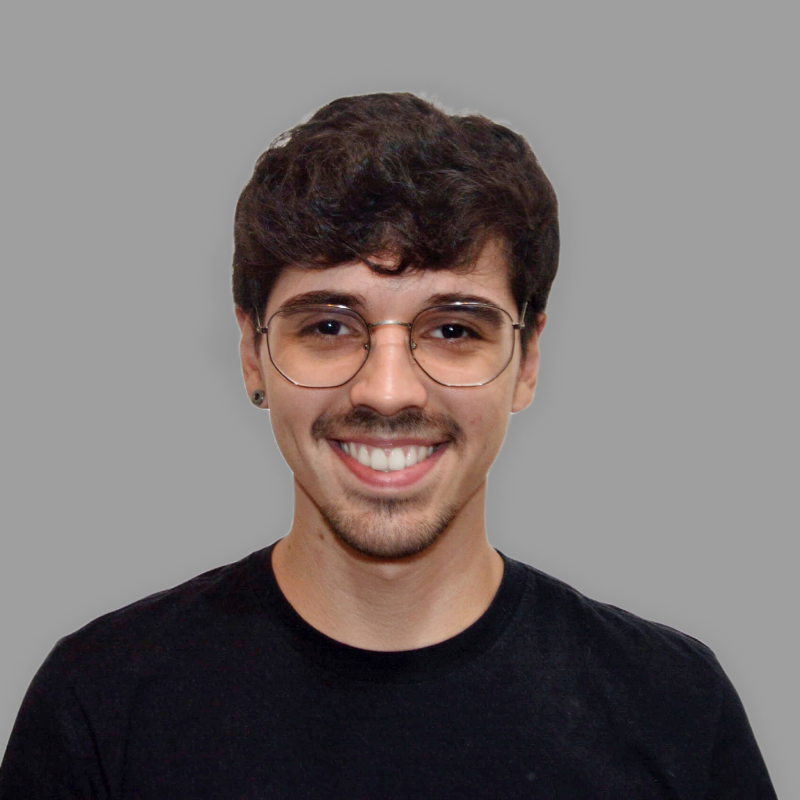
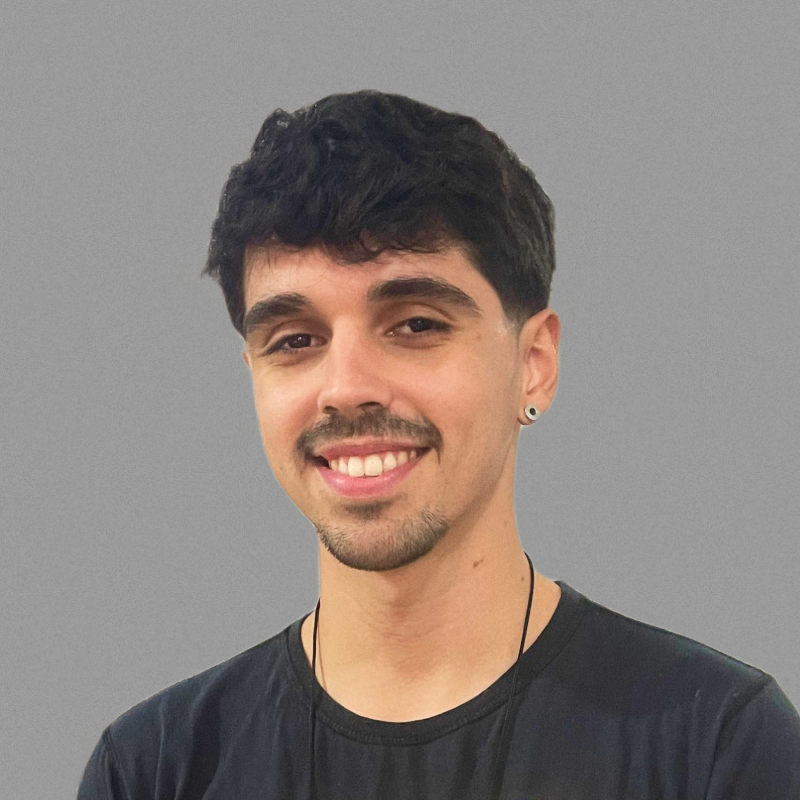
atualizando!

diff --git a/index.html b/index.html
@@ -50,11 +50,12 @@
           </li>
 
           <li>
-            <a href="#habilidades" class="navbar-link">Habilidades</a>
+            <a href="#conhecimentos" class="navbar-link">Conhecimentos</a>
           </li>
 
+
           <li>
-            <a href="#conhecimentos" class="navbar-link">Conhecimentos</a>
+            <a href="#ferramentas" class="navbar-link">Ferramentas</a>
           </li>
 
           <li>
@@ -96,7 +97,7 @@
             <h1 class="h1 hero-title">Miguel Braz</h1>
 
             <p class="hero-subtitle">
-              Web Designer | Designer Gráfico | Dev. Front-end
+              Web Designer | Marketing digital
             </p>
 
             <div class="hero-banner">
@@ -104,7 +105,7 @@
             </div>
 
             <p class="section-text">
-              Muito prazer! Sou um profissional criativo formado em Desenvolvimento de sistemas e atualmente cursando MBA em UX Design, inovação e marketing digital na UniSenac.
+              Muito prazer! Sou um profissional criativo e analista com pós-graduação em UX Design, inovação e marketing digital pela UniSenac.
             </p>
 
             <a href="assets/images/Currículo - Miguel Braz.pdf" download class="btn has-before">
@@ -126,7 +127,7 @@
         - #SERVICE
       -->
 
-      <section class="service" id="habilidades" aria-labelledby="service-label">
+      <section class="service" id="conhecimentos" aria-labelledby="service-label">
         <div class="container">
 
           <div class="title-wrapper">
@@ -136,7 +137,7 @@
                 - 1 -
               </p>
 
-              <h2 class="h2 section-title" id="service-label">Habilidades</h2>
+              <h2 class="h2 section-title" id="service-label">Conhecimentos</h2>
             </div>
 
             <p class="section-text">
@@ -173,10 +174,10 @@
                 <div class="service-card">
 
                   <div class="card-icon">
-                    <ion-icon name="shapes-outline"></ion-icon>
+                    <ion-icon name="share-social-outline"></ion-icon>
                   </div>
 
-                  <h3 class="h3 card-title">Design Gráfico</h3>
+                  <h3 class="h3 card-title">Marketing digital</h3>
 
                   <p class="card-text">
                     Combinação de elementos gráficos para comunicar mensagens de forma eficaz, incluindo a criação de logotipos, identidades visuais e materiais promocionais que refletem a marca.
@@ -196,7 +197,7 @@
                     <ion-icon name="color-filter-outline"></ion-icon>
                   </div>
 
-                  <h3 class="h3 card-title">UX Design</h3>
+                  <h3 class="h3 card-title">UX & UI Design</h3>
 
                   <p class="card-text">
                     Entendimento e melhoria da interação dos usuários com produtos digitais através de pesquisa, testes de usabilidade, garantindo uma experiência intuitiva e satisfatória.
@@ -213,10 +214,10 @@
                 <div class="service-card">
 
                   <div class="card-icon">
-                    <ion-icon name="share-social-outline"></ion-icon>
+                    <ion-icon name="shapes-outline"></ion-icon>
                   </div>
 
-                  <h3 class="h3 card-title">Social Media</h3>
+                  <h3 class="h3 card-title">Design gráfico</h3>
 
                   <p class="card-text">
                     Desenvolvimento de materiais interativos e relevantes, com análise de métricas e estratégias para fortalecer a conexão da marca com o público.
@@ -250,15 +251,15 @@
 
 
       <!-- 
-        - #SKILLS
+        - #Ferramentas
       -->
 
-      <section class="section skills" aria-label="our skills" id="conhecimentos">
+      <section class="section skills" aria-label="our skills" id="ferramentas">
         <div class="container">
 
           <p class="section-subtitle">- 2 -</p>
 
-          <h2 class="h2 section-title">Conhecimentos</h2>
+          <h2 class="h2 section-title">Ferramentas</h2>
 
           <div class="skills-wrapper">
 
@@ -281,7 +282,19 @@
 
                 <li>
                   <div class="progress-wrapper">
-                    <p class="progress-label">Web Design</p>
+                    <p class="progress-label">Figma</p>
+
+                    <data class="progress-value" value="98">98%</data>
+                  </div>
+
+                  <div class="progress-bg">
+                    <div class="progress" style="width: 98%;"></div>
+                  </div>
+                </li>
+
+                <li>
+                  <div class="progress-wrapper">
+                    <p class="progress-label">Photoshop & Illustrator</p>
 
                     <data class="progress-value" value="95">95%</data>
                   </div>
@@ -293,49 +306,25 @@
 
                 <li>
                   <div class="progress-wrapper">
-                    <p class="progress-label">UX & UI Design</p>
+                    <p class="progress-label">Canva</p>
 
-                    <data class="progress-value" value="93">93%</data>
+                    <data class="progress-value" value="95">95%</data>
                   </div>
 
                   <div class="progress-bg">
-                    <div class="progress" style="width: 93%;"></div>
+                    <div class="progress" style="width: 95%;"></div>
                   </div>
                 </li>
 
                 <li>
                   <div class="progress-wrapper">
-                    <p class="progress-label">Design Gráfico</p>
+                    <p class="progress-label">Premiere Pro & CapCut</p>
 
-                    <data class="progress-value" value="93">93%</data>
+                    <data class="progress-value" value="92">92%</data>
                   </div>
 
                   <div class="progress-bg">
-                    <div class="progress" style="width: 93%;"></div>
-                  </div>
-                </li>
-
-                <!-- <li>
-                  <div class="progress-wrapper">
-                    <p class="progress-label">Social Media</p>
-
-                    <data class="progress-value" value="89">89%</data>
-                  </div>
-
-                  <div class="progress-bg">
-                    <div class="progress" style="width: 89%;"></div>
-                  </div>
-                </li> -->
-
-                <li>
-                  <div class="progress-wrapper">
-                    <p class="progress-label">Programação Front-end</p>
-
-                    <data class="progress-value" value="88">88%</data>
-                  </div>
-
-                  <div class="progress-bg">
-                    <div class="progress" style="width: 88%;"></div>
+                    <div class="progress" style="width: 92%;"></div>
                   </div>
                 </li>
 
@@ -375,23 +364,22 @@
 
           <ul class="slider-container" data-slider-container>
 
-            <li class="slider-item">
+                        <li class="slider-item">
               <div class="portfolio-card img-holder" style="--width: 600; --height: 600;">
 
-                <img src="./assets/images/portfolio-1.PNG" width="600" height="600" loading="lazy" alt="portfolio"
+                <img src="./assets/images/portfolio-3.png" width="600" height="600" loading="lazy" alt="portfolio"
                   class="img-cover">
 
                 <div class="card-content">
-                  <h3 class="h3 card-title">Smart+ | UI Design, UX Design</h3>
+                  <h3 class="h3 card-title">Behance | Meus projetos</h3>
 
                   <p class="card-text">Clique para acessar</p>
                 </div>
 
-                <a href="https://www.behance.net/gallery/222189747/SMART-UI-UX-Design" class="layer-link"></a>
+                <a href="https://www.behance.net/miguelbraz" class="layer-link"></a>
 
               </div>
             </li>
-
             
             <li class="slider-item">
               <div class="portfolio-card img-holder" style="--width: 600; --height: 600;">
@@ -410,19 +398,19 @@
               </div>
             </li>
 
-            <li class="slider-item">
+                        <li class="slider-item">
               <div class="portfolio-card img-holder" style="--width: 600; --height: 600;">
 
-                <img src="./assets/images/portfolio-3.png" width="600" height="600" loading="lazy" alt="portfolio"
+                <img src="./assets/images/portfolio-1.PNG" width="600" height="600" loading="lazy" alt="portfolio"
                   class="img-cover">
 
                 <div class="card-content">
-                  <h3 class="h3 card-title">Behance | Meus projetos</h3>
+                  <h3 class="h3 card-title">Smart+ | UI Design</h3>
 
                   <p class="card-text">Clique para acessar</p>
                 </div>
 
-                <a href="https://www.behance.net/miguelbraz" class="layer-link"></a>
+                <a href="https://www.behance.net/gallery/222189747/SMART-UI-UX-Design" class="layer-link"></a>
 
               </div>
             </li>
